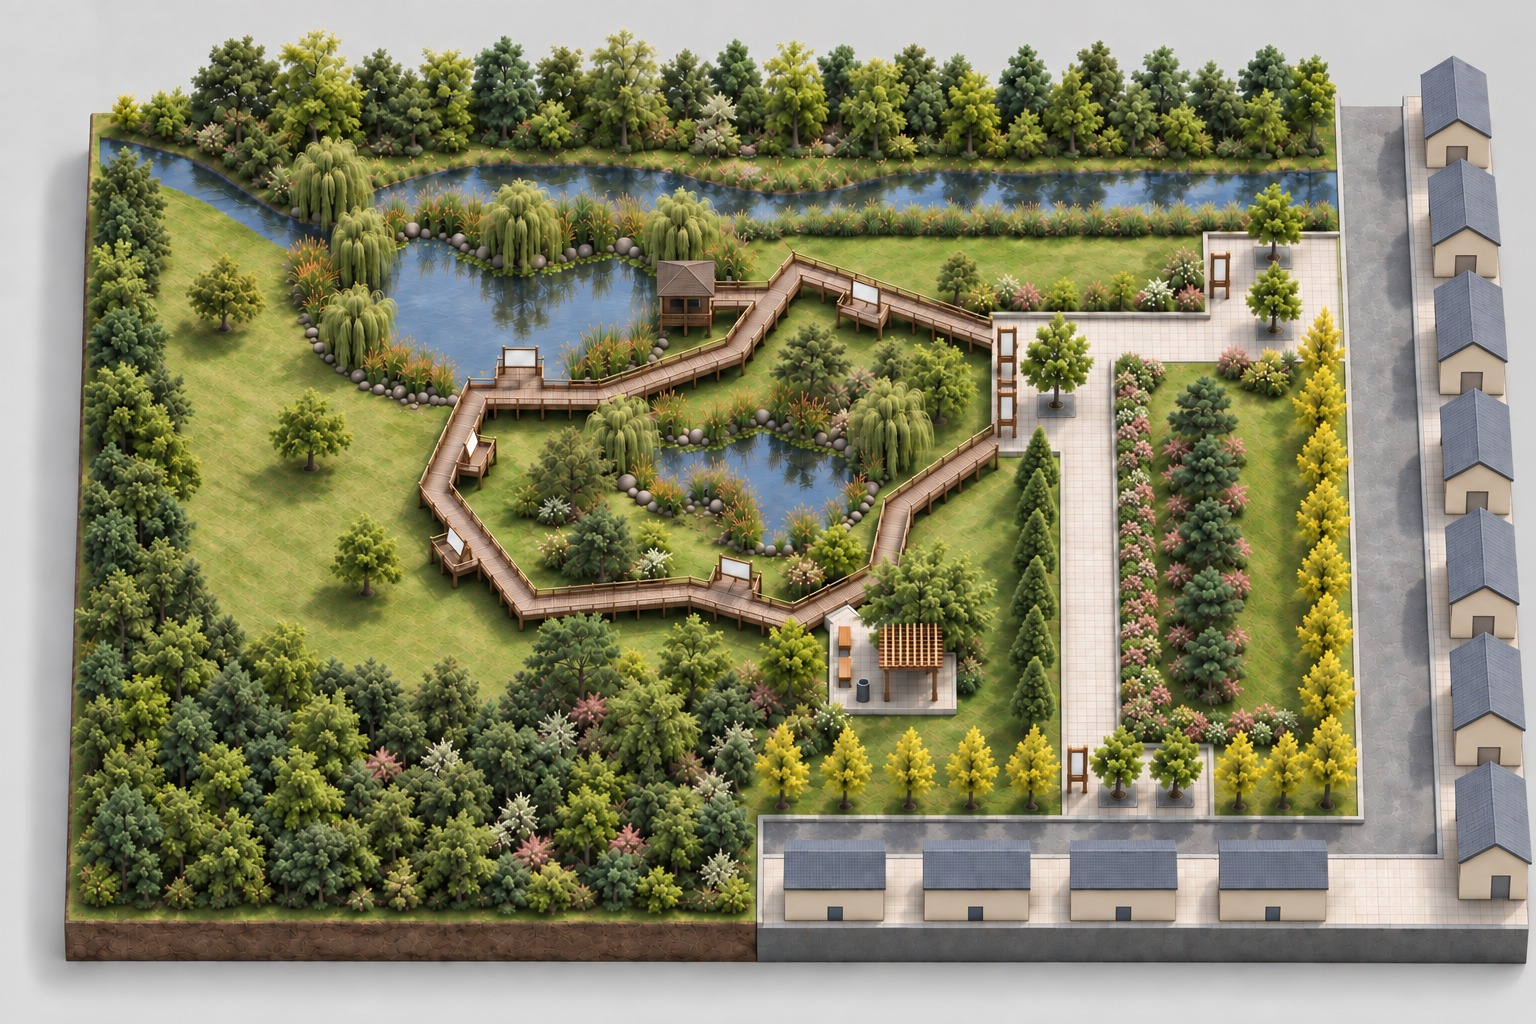
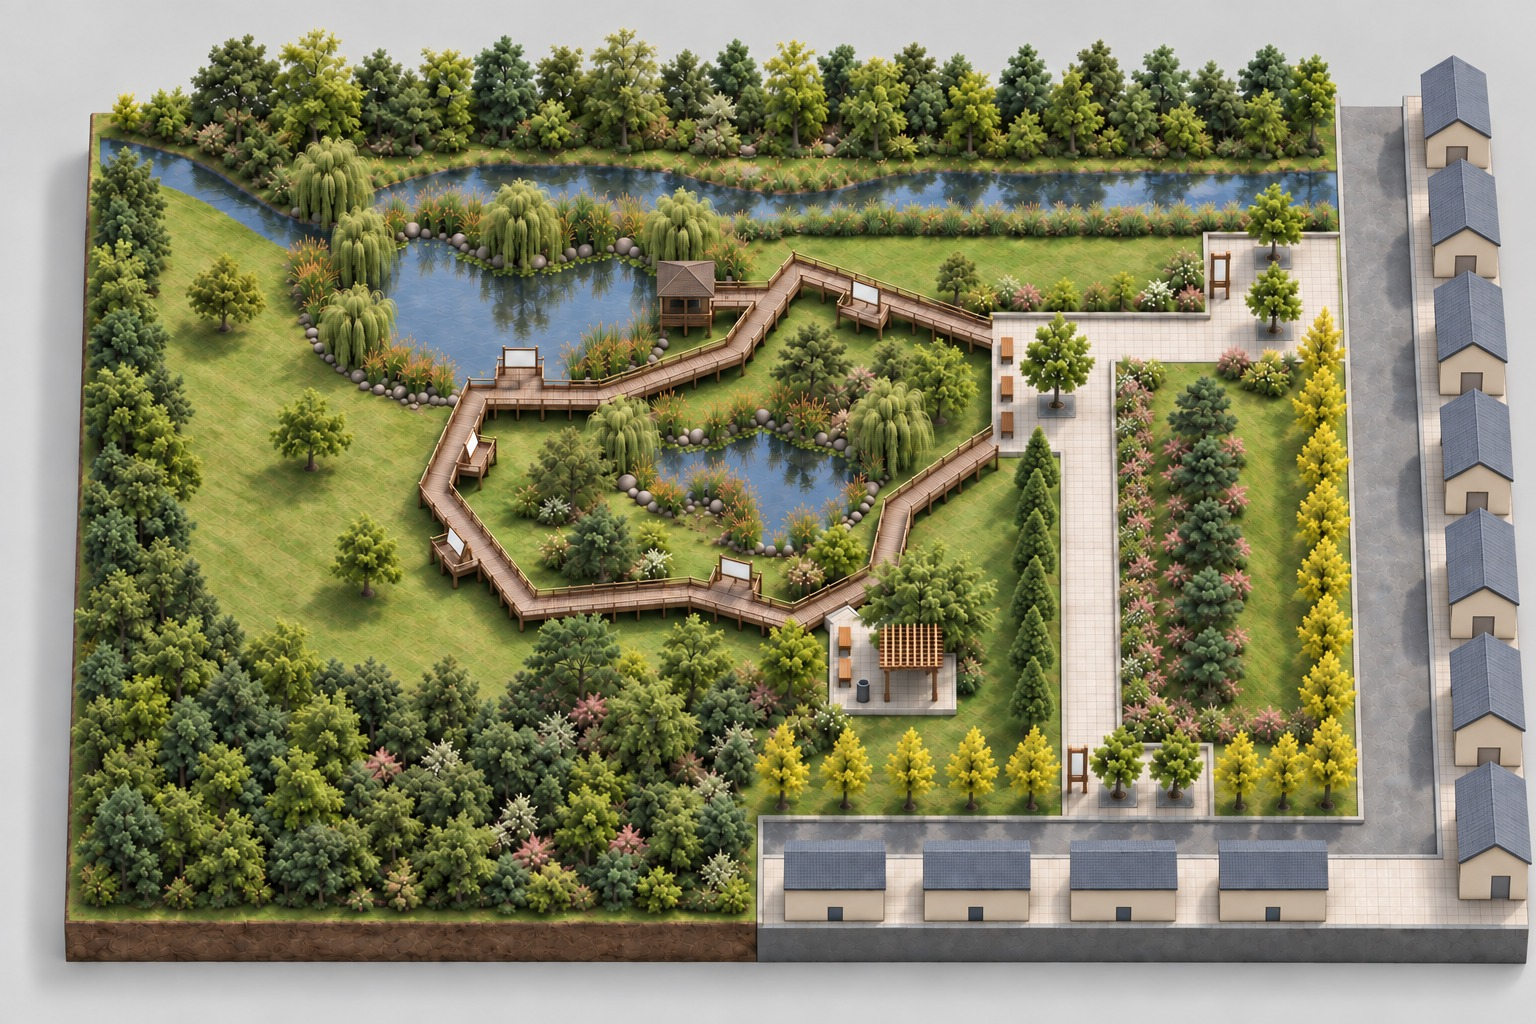
입체평면도 401: 모임광장 평의자 3 (17회차) — 13회차로 돌아가 한 번에
성운 시설물 수량표상 모임광장 서쪽 셋은 안내판이 아니라 평의자다
(평의자 8 · 안내판 6 · 종합안내판 1, 안내판 6은 관찰데크 5 + 조류관찰소 1
로 다 차므로 평의자 8 - 휴게공간 5 = 3 이 모임광장 몫). 글은 앞서 고쳤고
이번에 그림을 고쳤다.

My 조감도에서 통한 조리법을 그대로 썼다 — 16회차 위에 또 얹지 않고
덧그림이 적은 13회차로 돌아가 '가장자리 띠'와 '평의자 3'을 한 프롬프트에
넣어 한 번에 그렸다. 자리는 "보도가 데크와 만나는 왼쪽 변, 수목보호대에
심긴 나무 바로 왼쪽"으로 짚고 "관찰데크 5 + 조류관찰소 1 안내판은 지우지
마라"를 따로 못박았다.

측정: 선명도 1015 → 1033 (배포본 대비 +2%). 16회차 위에 얹었으면
-10~19% 였을 것이다. 평행투영도 그대로 — 동측 도로 띠 왼쪽 끝
1353·1356·1361px(16회차와 동일), 좌변 -15px · 우변 +32px.
관찰데크 안내판 5개는 화소 좌표까지 16회차와 같다.

diff --git a/_ls_drawing_refs/401_입체평면도/content.md b/_ls_drawing_refs/401_입체평면도/content.md
@@ -1,5 +1,5 @@
 'My' 탭의 색 배치도와 '성운' 탭의 **기본설계도 · 배식설계도**를 GPT 이미지 모델
-(gpt-image-2.5-sunburst)에 주고 만든 **입체평면도**입니다(16회차).
+(gpt-image-2.5-sunburst)에 주고 만든 **입체평면도**입니다(17회차).
 
 '조감도' 탭과 달리 **원근이 없는 평행투영(축측투영)** 입니다. 멀리 있는 것도 가까이 있는 것과
 같은 크기로 그려지므로 **평면도와 그대로 견주어 볼 수 있습니다** — 주택 여덟 채가 모두 같은
@@ -60,6 +60,13 @@
 16. 렌더 품질을 `high` 에서 **`xhigh`** 로 올려 다시 그렸습니다(16회차). 띠는 도면처럼 왼쪽 변
     전체를 지나 아래 변까지 이어졌고, 선명도가 14·15회차보다 올라가 13회차와 1:1 확대에서
     구분되지 않는 수준이 됐습니다. 이것을 채택했습니다
+17. 성운 시설물 수량표를 다시 보니 **모임광장 서쪽 셋은 안내판이 아니라 평의자**였습니다 —
+    평의자 8 · 안내판 6 · 종합안내판 1 인데 안내판 6은 관찰데크 5 + 조류관찰소 1 로 이미 다 차고,
+    평의자 8 − 휴게공간 5 = 3 이 모임광장 몫입니다. 이때 **16회차 위에 또 얹지 않고 13회차로
+    돌아가** '가장자리 띠'와 '평의자 3'을 **한 프롬프트에 넣어 한 번에** 그렸습니다(17회차).
+    자리는 **"보도가 데크와 만나는 왼쪽 변, 수목보호대에 심긴 나무 바로 왼쪽"** 으로 짚고
+    **"관찰데크 5 + 조류관찰소 1 안내판은 지우지 마라"** 를 따로 못박았습니다.
+    선명도가 16회차보다 오히려 **2% 올라갔습니다**(1015 → 1033)
 
 > 회차마다 색 배치도와 배식설계도를 첫 두 참고 그림으로 다시 주고, 앞 회차 그림을 셋째로 줍니다.
 > 마스크 부분 수정이나 그림을 손으로 자르고 돌리는 일은 하지 않습니다.
@@ -73,14 +80,16 @@
 따라 한 줄로 빈틈없이 심어라"로 적어 한 번에 됐습니다(14회차).
 
 **덧그리기를 거듭하면 그림이 조금씩 물러집니다.** 14회차에서 선명도가 20% 떨어졌고 프롬프트로는
-막지 못했습니다(15회차). 렌더 품질을 `xhigh` 로 올리니 회복됐습니다(16회차).
+막지 못했습니다(15회차). 렌더 품질을 `xhigh` 로 올리니 회복됐습니다(16회차). **고칠 것이 또 생기면
+마지막 그림 위에 얹지 말고, 덧그림이 적은 앞 회차로 돌아가 고칠 것을 모두 한 프롬프트에 넣어
+다시 그리는 편이 낫습니다** — 17회차가 그렇게 해서 오히려 선명해졌습니다.
 
 **실사를 주문하면 모델이 원근으로 되돌아가기 쉽습니다.** 11회차에 질감만 바꾸면서도 평행투영
 문장을 통째로 남겨 두었고, 회차마다 화소로 재서 확인했습니다 — 동측 도로 띠 왼쪽 끝이
 10회차 1351·1349·1361px, 16회차 1353·1356·1361px 로 같고, 모형 왼쪽 변 기울기도
 10회차 −18px, 16회차 −16px(730px 기준)로 같습니다.
 
-## 도면과 대조 (16회차)
+## 도면과 대조 (17회차)
 
 | 항목 | 도면 | 그림 |
 | --- | --- | --- |
@@ -94,30 +103,39 @@
 | 관찰로 | 목재데크, 습지를 다각형으로 한 바퀴 돌아 모임광장에서 닫힘 | ✓ 닫힌 고리 · 데크 널 이음매·난간·하부 기둥·그림자까지 |
 | 관찰데크 | 5개소, 안내판 5개 | ✓ 5개 · 각각 빈 안내판 1개 |
 | 휴게공간 | 8m × 8m, 파고라 4×4 1 · 평의자 · 휴지통 1 | ✓ 파고라 1(기둥 4개와 살대 그림자) · 평의자 2 · 휴지통 1 · 그늘목 |
-| 모임광장 | 습지 동쪽, 서쪽 **평의자 3** · 수목보호대 1 | △ 그림은 아직 안내판 3개로 그려져 있음 — 아래 '남은 차이' 참조 |
+| 모임광장 | 습지 동쪽, 서쪽 **평의자 3** · 수목보호대 1 | ✓ (17회차에 안내판 3개를 평의자 3개로 바꿈) |
 | 진입광장 | 2개소(북동 모서리 · 남측), 종합안내판 1 · 수목보호대 2씩, 도로로 바로 열림 | ✓ 보호대 합계 5개(모임광장 1 + 진입광장 2+2) |
 | 남북 동선 | 두 진입광장을 잇는 소형고압블록 포장 | ✓ 동측 도로와 평행 |
 | 배식 | 동선 서쪽 메타세쿼이아 열식 · 동쪽 마운딩에 소나무 7 + 철쭉 · 도로변 은행나무 열식 · 산림지구 다층림 · 저수지·관찰로 서쪽은 열린 잔디 | ✓ 마운딩은 잔디 언덕에 소나무 7주(13회차), 서쪽 변과 남쪽 변을 따라 끊기지 않는 꽃관목 띠(16회차) |
 | 글자 | 없음 | ✓ |
 
-남은 차이는 셋입니다. ① **모임광장 서쪽 셋이 안내판으로 그려져 있는데 실은 평의자**입니다 — 성운 답안 시설물 수량표가 평의자 8 · 안내판 6 · 종합안내판 1 이고, 안내판 6은 관찰데크 5 + 조류관찰소 1 로 이미 다 차므로 평의자 8 − 휴게공간 5 = 3 이 모임광장 몫입니다('My' 탭 조감도는 7회차에 평의자로 고쳤습니다). 이 그림은 아직 고치지 않았습니다. ② **저수지가 도면보다 조금 동쪽·넓습니다**(도면 부지 폭의 14~44%, 그림 약 19~50%). ③ **남측 도로가 55% 지점에서 시작**합니다(도면 50%).
+남은 차이는 둘입니다. ① **저수지가 도면보다 조금 동쪽·넓습니다**(도면 부지 폭의 14~44%, 그림 약 19~50%). ② **남측 도로가 55% 지점에서 시작**합니다(도면 50%).
 
-비용은 16장 약 $0.69 입니다(마지막 장만 `xhigh` 품질이라 $0.074).
+비용은 17장 약 $0.76 입니다(16·17회차만 `xhigh` 품질이라 장당 $0.074).
 
-## 프롬프트 — 마지막 회차(16회차, 참고: 색 배치도 + 배식설계도 + 13회차 그림)
+## 프롬프트 — 마지막 회차(17회차, 참고: 색 배치도 + 배식설계도 + 13회차 그림)
 
-앞 회차 그림을 함께 주고 빠진 식재 하나만 적은 것입니다. 1~15회차 프롬프트는 뺐습니다.
+13회차 그림을 함께 주고 고칠 둘만 적은 것입니다. 1~16회차 프롬프트는 뺐습니다.
 
     The FIRST attached image is the colour-coded site plan of a small Korean ecological park. The SECOND is its hand-drawn planting plan. The THIRD attached image is a PHOTOREALISTIC axonometric render of the same park. Its LAYOUT, its CAMERA, its PARALLEL PROJECTION, its MATERIALS, its TEXTURES, its LIGHTING and every one of its objects are CORRECT and must be reproduced exactly. It stays photorealistic.
 
-    One planting is missing. Add it. Change nothing else at all.
+    Two things are wrong. Fix exactly these two. Change nothing else at all.
 
-    THE MISSING SHRUB EDGING ON THE MOUND.
+    FIX 1 — THE MISSING SHRUB EDGING ON THE MOUND.
     Find the long grassy mound: the low turf hill in the open lawn east of the straight block-paved path, the one planted with seven pines and pink azaleas down its middle. Its LEFT side, where the turf meets the block paving of the path, is at present BARE GRASS, with only two or three loose clumps of shrubs at its top end and one near its bottom end.
 
     PLANT A CONTINUOUS BAND OF LOW FLOWERING SHRUBS ALONG THAT LEFT EDGE. It is one unbroken ribbon of dense, rounded, knee-high flowering shrubs — the same kind and the same colours as the clumps already there — about two or three shrubs deep, hugging the turf edge where it meets the paving. It STARTS at the very top end of the mound and runs all the way DOWN to the bottom end without a single gap, and at the bottom end it TURNS RIGHT and runs along the bottom edge of the mound's lawn as well, so the ribbon makes an L. Its outer line is soft and lobed like a natural shrub mass, not a clipped straight hedge. Existing loose clumps at the ends are absorbed into this continuous ribbon.
 
     WHAT DOES NOT CHANGE ON THE MOUND: the SEVEN pines down its middle stay exactly where they are, at the same size; the pink azalea masses between and around those pines stay exactly where they are; the mound stays a soft grassy hill whose turf runs on into the lawn, with its near slope lit and its far slope shaded. Do not add a clipped hedge border, a kerb, bare soil or a planting bed outline. Do not add shrubs anywhere else in the park.
+
+    FIX 2 — THE THREE THINGS ON THE GATHERING PLAZA ARE BENCHES, NOT SIGNBOARDS.
+    WHERE: the gathering plaza is the block-paved square just right of the timber boardwalk ring, the one with a single tree growing in a square metal grate set into its paving. On its LEFT edge, in the narrow strip of paving between the timber boardwalk deck and that tree, stands a vertical line of THREE tall timber frames holding WHITE PANELS, one above the other, facing out across the paving.
+
+    DELETE all three frames and their white panels completely - frames, legs and panels. In exactly the same three spots put THREE BROWN TIMBER BENCHES, in the same vertical line and at the same even spacing. A bench is a long, low seat of brown timber slats lying flat on the paving, with no back and no upright panel of any kind - from this high viewpoint it reads as a narrow plank on the ground, never a standing board. All three are identical in length, width, timber and orientation.
+
+    When you are done, that strip carries THREE IDENTICAL BROWN TIMBER BENCHES and nothing else. Count them: one bench, two benches, three benches. There is NO white panel, NO timber frame, NO standing board and NO sign of any kind left anywhere on this plaza. The tree in its square metal grate stays exactly where it is, immediately to their right.
+
+    DO NOT TOUCH THE OTHER SIGNBOARDS. The small blank white boards on the five timber viewing platforms of the boardwalk, and the one at the bird-watching hut, MUST ALL STAY - six blank white boards in all, at the same places, the same sizes and the same square alignment. Do not delete them, do not move them and do not turn them into benches. The large blank boards on the two entrance plazas also stay. Only the three frames on the gathering plaza change.
 
     SHARPNESS — RENDER THIS FRESH AT FULL RESOLUTION AND FULL DETAIL.
     Do not retouch or resample the third image: draw the whole picture again from scratch. Every part of it must be at least as crisp and as finely detailed as the third image is — the individual leaves in every canopy, the blades and mowing stripes in the turf, the board joints and grain of the boardwalk, the joints of the block paving, the roof tiles of the houses, the pebbles at the water edge. Nothing may come out softer, blurrier, smoother or more washed out than in the third image.
@@ -137,6 +155,6 @@
     - All vertical edges exactly vertical in the picture and exactly parallel to one another.
     - The camera stays 45 degrees above the ground, the slab's DEPTH foreshortened to 0.71 of true, exactly as in the third image. Same framing and orientation: stream and reservoir at the TOP, narrow woodland strip and forest on the LEFT and lower left, road and houses on the RIGHT, second road and houses along the BOTTOM RIGHT. Do not rotate, flip, zoom or crop.
 
-    EVERYTHING ELSE IS EXACTLY AS IN THE THIRD IMAGE: the stream across the top with wooded hillside beyond; the reservoir with its willows, reed beds and shoreline stones; the wetland pond; ONE closed angular ring of raised timber boardwalk with EXACTLY 5 viewing platforms, each carrying one blank board; EXACTLY 1 bird-watching hut on the reservoir's lower-right shore; the rest area with EXACTLY 1 pergola, 2 benches and 1 litter bin under shade trees; the gathering plaza with EXACTLY 3 blank signboards in a row along its left edge and EXACTLY 1 tree in a square grate; EXACTLY 2 trees in grates and 1 blank board on the top-right entrance plaza; EXACTLY 2 trees in grates and 1 blank board on the bottom entrance plaza — FIVE tree grates in all; ONE single row of about 12 dawn redwoods on the grass immediately LEFT of the straight path; ONE single row of ginkgos inside the right-hand road continuing inside the bottom road; open mown lawn west of the ring and west of the reservoir with only three or four isolated specimen trees; the dense multi-layered woodland only in the lower left and lower middle.
+    EVERYTHING ELSE IS EXACTLY AS IN THE THIRD IMAGE: the stream across the top with wooded hillside beyond; the reservoir with its willows, reed beds and shoreline stones; the wetland pond; ONE closed angular ring of raised timber boardwalk with EXACTLY 5 viewing platforms, each carrying one blank board; EXACTLY 1 bird-watching hut on the reservoir's lower-right shore; the rest area with EXACTLY 1 pergola, 2 benches and 1 litter bin under shade trees; the gathering plaza with its EXACTLY 1 tree in a square grate; EXACTLY 2 trees in grates and 1 blank board on the top-right entrance plaza; EXACTLY 2 trees in grates and 1 blank board on the bottom entrance plaza — FIVE tree grates in all; ONE single row of about 12 dawn redwoods on the grass immediately LEFT of the straight path; ONE single row of ginkgos inside the right-hand road continuing inside the bottom road; open mown lawn west of the ring and west of the reservoir with only three or four isolated specimen trees; the dense multi-layered woodland only in the lower left and lower middle.
 
     STRICT RULES: no new buildings, plazas, paths, bridges, fences, walls, cars or people; every board and sign stays blank; NO text, letters, numbers, labels, legends, arrows, north arrow, scale bar, grid lines, dimension lines or watermark anywhere.
